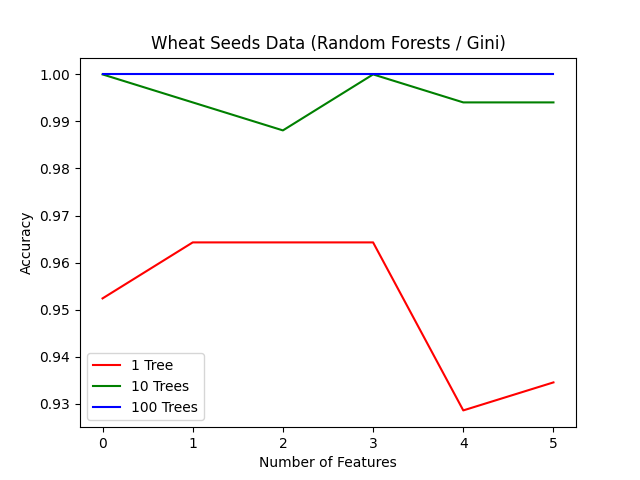
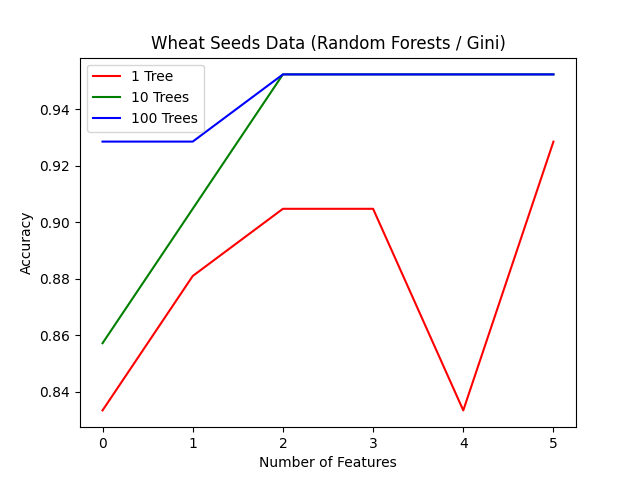
specified test vs train data.

diff --git a/A1/randomforests.py b/A1/randomforests.py
@@ -45,7 +45,7 @@ def random_forest(X_train, X_test, y_train, y_test, criterion, n_estimators, max
     y_train_prediction = clf.predict(X_train)
     y_test_prediction = clf.predict(X_test)
 
-    return metrics.accuracy_score(y_train, y_train_prediction)
+    return metrics.accuracy_score(y_test, y_test_prediction)
 
 
 # Use matplotlib to create graphs for results.
